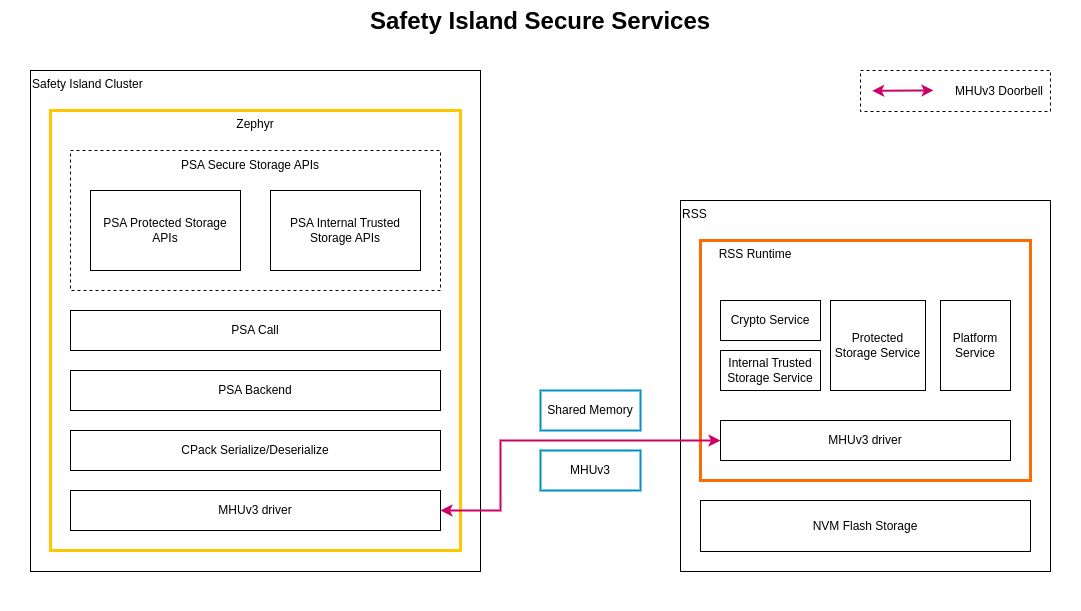
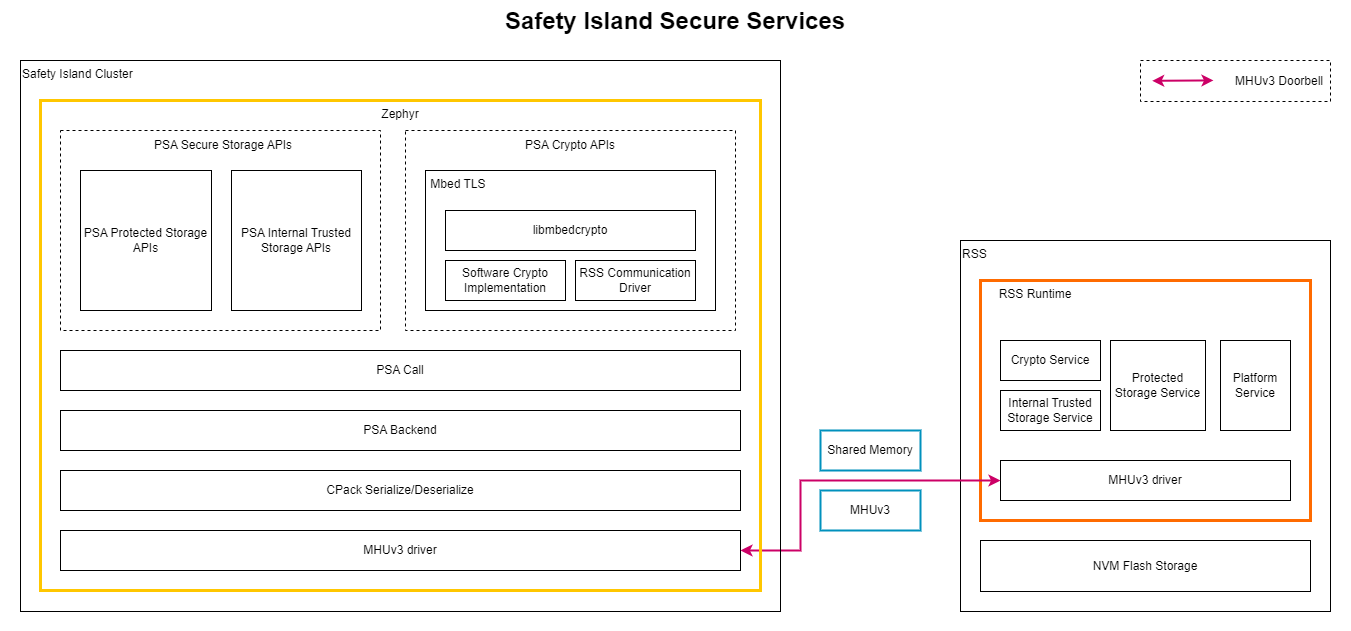
doc: Add SI Crypto part to secure_services.rst
Abstract the introduction of PSA APIs to the common part between PC and
SI.
Updated the architecture diagram of SI.
Add a section for Crypto APIs on SI.

diff --git a/documentation/design/secure_services.rst b/documentation/design/secure_services.rst
@@ -15,15 +15,8 @@ Introduction
 ************
 
 The Reference Software Stack provides the implementation of Secure Services
-through both the Primary Compute and Safety Island.
-
-***************
-Primary Compute
-***************
-
-The Primary Compute provides the implementation of `Crypto Service`_ and
-`Secure Storage Service`_ via the SE Proxy secure partition. These services
-are aligned to the following specifications:
+through both the Primary Compute and Safety Island. These services are aligned
+to the following specifications:
 
 * `PSA Crypto API`_: The API provides a portable programming interface to
   cryptographic operations, and key storage functionality on a wide range of
@@ -37,6 +30,13 @@ are aligned to the following specifications:
       the Platform Root of Trust (PRoT). For now the ITS API is not supported by
       the Reference Stack on the Primary Compute.
     * Protected Storage (PS) API: An interface for external protected storage.
+
+***************
+Primary Compute
+***************
+
+On Primary Compute, the implementation of `Crypto Service`_ and `Secure Storage
+Service`_ is based on the SE Proxy secure partition.
 
 The Primary Compute also provides the implementation of
 `UEFI SMM Services`_ via the SMM Gateway secure partition to support UEFI System
@@ -122,16 +122,8 @@ secure enclave as explained above.
 Safety Island
 *************
 
-The Safety Island provides the implementation of Secure Storage service.
-This service is aligned to the following specifications:
-
-* `PSA Secure Storage API`_: The API provides key/value storage
-  interfaces for use with device-protected storage. The Secure Storage API
-  describes two interfaces for storage:
-
-    * Internal Trusted Storage (ITS) API: An interface for storage provided by
-      the Platform Root of Trust (PRoT).
-    * Protected Storage (PS) API: An interface for external protected storage.
+The Safety Island provides the implementation of `Crypto Service`_ and
+`Secure Storage Service`_. The data paths of the services are different.
 
 Architecture
 ------------
@@ -145,6 +137,48 @@ the Safety Island Secure Services.
    :align: center
 
 |
+
+.. _design_safety_island_secure_services_psa_crypto_apis:
+
+PSA Crypto APIs
+---------------
+
+The `PSA Crypto API`_ is implemented by the ``libmbedcrypto`` library of
+`Mbed TLS`_.
+
+Mbed TLS supports drivers for cryptographic accelerators, secure elements and
+random generators. An `RSS Communication Driver` is created to communicate with
+RSS for calling the crypto service that is provided there. The driver invokes
+the ``psa_call()`` interface to communicate with the RSS via MHUv3.
+
+By introducing the driver, different crypto operations can be handled in
+different ways:
+
+* Asymmetric crypto operations can be handled in RSS for enhanced security,
+  because the private key cannot leave RSS. The following Crypto APIs are
+  supported by the driver:
+
+  Key management:
+    * ``psa_import_key``
+    * ``psa_generate_key``
+    * ``psa_copy_key``
+    * ``psa_destroy_key``
+    * ``psa_export_key``
+    * ``psa_export_public_key``
+
+  Asymmetric signature:
+    * ``psa_sign_message``
+    * ``psa_verify_message``
+    * ``psa_sign_hash``
+    * ``psa_verify_hash``
+
+  Asymmetric encryption:
+    * ``psa_asymmetric_encrypt``
+    * ``psa_asymmetric_decrypt``
+
+* Symmetric and other crypto operations are handled in Safety Island locally
+  with the Mbed TLS software implementation, where the runtime performance is
+  optimized.
 
 PSA Secure Storage APIs
 -----------------------
